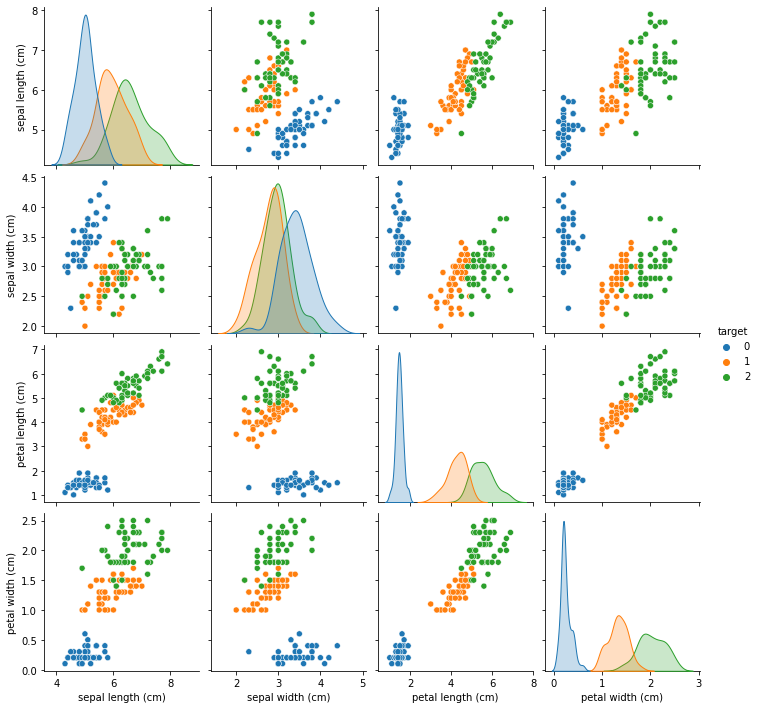
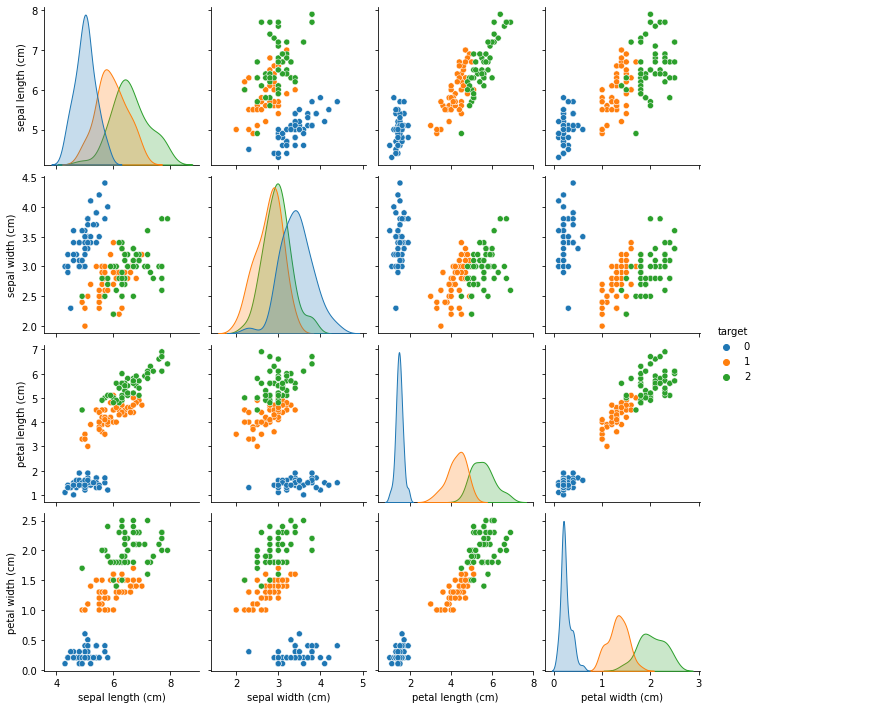
updt

diff --git a/README.md b/README.md
@@ -496,7 +496,8 @@ from sklearn import datasets
 import seaborn as sns
 
 <a alt="dados Originais">iris = datasets.load_iris()</a>
-X = pd.DataFrame (iris.data, columns = ["sepal length (cm)","sepal width (cm)","petal length (cm)","petal width (cm)",])
+X = pd.DataFrame (iris.data, 
+columns = ["sepal length (cm)","sepal width (cm)","petal length (cm)","petal width (cm)",])
 y = pd.DataFrame (iris.target, columns = ["target"])
 df = X.join (y)
 
@@ -507,7 +508,7 @@ df = X.join (y)
 		   <li>
 			   <input type="radio" id="101" name="sl">
 			   <label for="101"></label>
-			   <img src="modulo3/pca1.png" style="margin:auto; width:85%;" loading="lazy"/>
+			   <img src="modulo3/pca1.png" loading="lazy"/>
 			   <figcaption>Dados originais do conjunto Iris.</figcaption>
 		   </li>
 		   <li>
@@ -530,7 +531,7 @@ df = X.join (y)
 		   <li>
 			   <input type="radio" id="103" name="sl">
 			   <label for="103"></label>
-			   <img src="modulo3/pca2.png" style="margin:auto; width:85%;"  loading="lazy"/>
+			   <img src="modulo3/pca2.png" loading="lazy"/>
 			   <figcaption>Dados com a combinação de 2 variáveis do conjunto Iris com o uso da técnica PCA.</figcaption>
 		   </li>
 		</ul>
